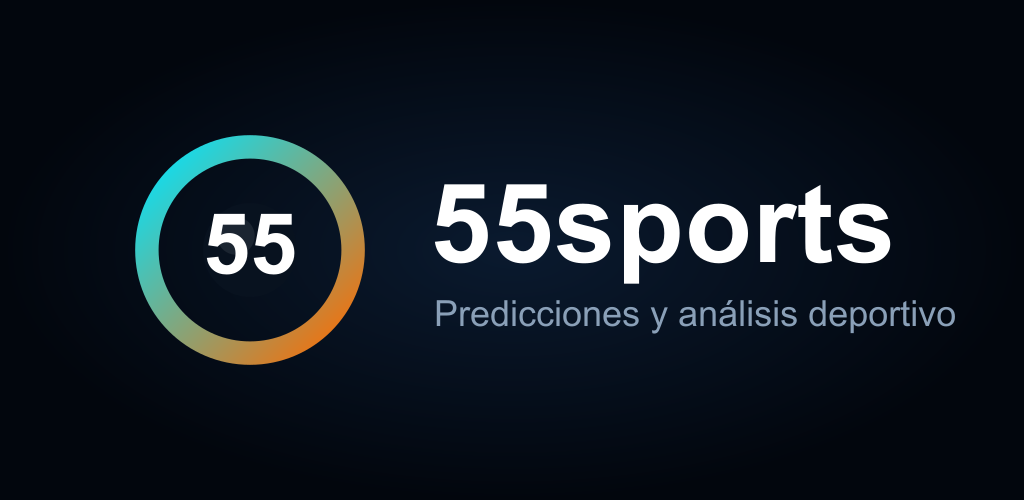
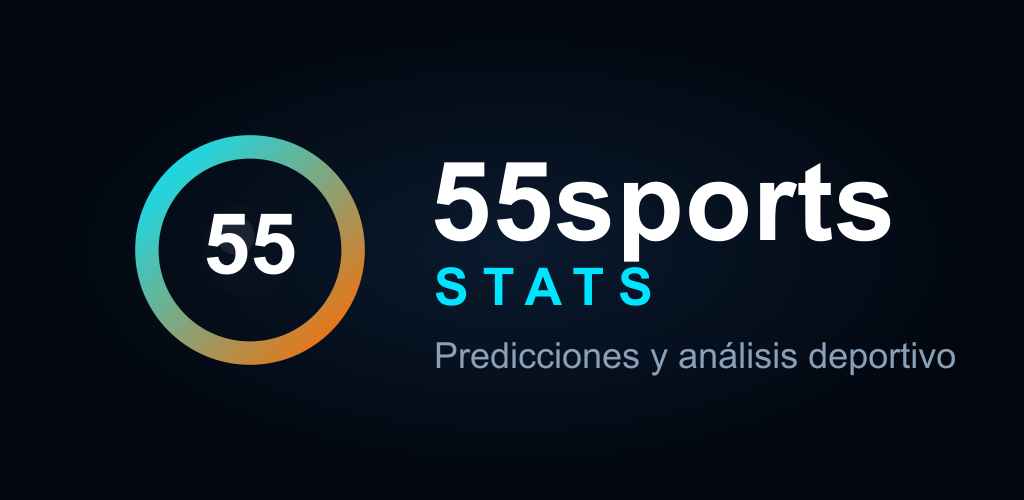
Renombrar la marca visible a 55sports Stats y actualizar splash/feature graphic

Changed region(s): [[0.4062, 0.3, 0.9375, 0.66], [0.4062, 0.69, 0.9375, 0.75]]

diff --git a/frontend/src/PrivacyPolicy.tsx b/frontend/src/PrivacyPolicy.tsx
@@ -17,15 +17,15 @@ export default function PrivacyPolicy() {
   return (
     <div className="max-w-3xl mx-auto px-4 py-8 space-y-6">
       <div>
-        <Link to="/" className="text-xs text-slate-400 hover:text-white">← Volver a 55sports</Link>
+        <Link to="/" className="text-xs text-slate-400 hover:text-white">← Volver a 55sports Stats</Link>
         <h1 className="mt-3 text-2xl sm:text-3xl font-bold text-white">Política de Privacidad</h1>
         <p className="mt-1 text-xs text-slate-500">Vigente desde el {VIGENCIA}</p>
       </div>
 
       <Section title="1. Responsable del tratamiento">
         <p>
-          <strong className="text-slate-200">{RESPONSABLE}</strong>, titular de la plataforma 55sports
-          (en adelante, "55sports"), es el responsable del tratamiento de los datos personales
+          <strong className="text-slate-200">{RESPONSABLE}</strong>, titular de la plataforma 55sports Stats
+          (en adelante, "55sports Stats"), es el responsable del tratamiento de los datos personales
           descritos en esta política, conforme a la Ley 1581 de 2012, el Decreto 1377 de 2013 y las
           demás normas que los modifiquen o complementen.
         </p>
@@ -46,7 +46,7 @@ export default function PrivacyPolicy() {
 
       <Section title="3. Para qué usamos tus datos">
         <ul className="list-disc pl-5 space-y-1">
-          <li>Gestionar tu suscripción a 55sports.</li>
+          <li>Gestionar tu suscripción a 55sports Stats.</li>
           <li>Enviarte información sobre predicciones, resultados, análisis y novedades de la plataforma.</li>
           <li>Responder tus consultas y solicitudes.</li>
           <li>Mejorar el contenido y el funcionamiento del servicio.</li>
@@ -81,7 +81,7 @@ export default function PrivacyPolicy() {
 
       <Section title="6. Dónde se almacenan los datos">
         <p>
-          La infraestructura de 55sports (servidor, base de datos y sitio web) está alojada con
+          La infraestructura de 55sports Stats (servidor, base de datos y sitio web) está alojada con
           proveedores de servicios en la nube ubicados en Estados Unidos. Esto implica una
           transmisión internacional de datos, que se realiza con proveedores que aplican medidas de
           seguridad adecuadas.
@@ -98,20 +98,20 @@ export default function PrivacyPolicy() {
 
       <Section title="8. Menores de edad">
         <p>
-          55sports está dirigida a mayores de 18 años. No recolectamos intencionalmente datos de
+          55sports Stats está dirigida a mayores de 18 años. No recolectamos intencionalmente datos de
           menores de edad; si detectamos que se registró un menor, eliminaremos sus datos.
         </p>
       </Section>
 
       <Section title="9. Naturaleza informativa y marcas de terceros">
         <p>
-          55sports es una plataforma informativa y de análisis estadístico. No es una casa de
+          55sports Stats es una plataforma informativa y de análisis estadístico. No es una casa de
           apuestas, no recibe ni gestiona apuestas ni dinero, y sus predicciones son estimaciones
           que no garantizan resultados.
         </p>
         <p>
           Los nombres, escudos y marcas de equipos y competiciones pertenecen a sus respectivos
-          propietarios. 55sports es independiente y no está afiliada ni respaldada por ellos.
+          propietarios. 55sports Stats es independiente y no está afiliada ni respaldada por ellos.
         </p>
       </Section>
 

diff --git a/frontend/src/SubscribeModal.tsx b/frontend/src/SubscribeModal.tsx
@@ -129,7 +129,7 @@ export default function SubscribeModal({ isOpen, onClose }: Props) {
           <div className="flex items-center gap-3">
             <span className="text-3xl">🔔</span>
             <div>
-              <h2 className="text-slate-900 font-bold text-lg leading-tight">Suscríbete a 55sports</h2>
+              <h2 className="text-slate-900 font-bold text-lg leading-tight">Suscríbete a 55sports Stats</h2>
               <p className="text-slate-800 text-xs mt-0.5">Mantente al tanto de predicciones, resultados y novedades</p>
             </div>
           </div>
@@ -142,7 +142,7 @@ export default function SubscribeModal({ isOpen, onClose }: Props) {
               <div className="text-6xl">🎉</div>
               <p className="text-white font-semibold text-lg">{serverMsg}</p>
               <p className="text-slate-400 text-sm">
-                Te mantendremos al tanto de las predicciones, análisis y novedades de 55sports.
+                Te mantendremos al tanto de las predicciones, análisis y novedades de 55sports Stats.
               </p>
               <button
                 onClick={handleClose}
@@ -227,7 +227,7 @@ export default function SubscribeModal({ isOpen, onClose }: Props) {
                     className="mt-0.5 w-4 h-4 accent-yellow-400 flex-shrink-0 cursor-pointer"
                   />
                   <span className="text-xs text-slate-400 leading-relaxed group-hover:text-slate-300 transition-colors">
-                    Autorizo a 55sports el tratamiento de mis datos personales (nombre, correo,
+                    Autorizo a 55sports Stats el tratamiento de mis datos personales (nombre, correo,
                     teléfono, país y ciudad) para enviarme información sobre predicciones,
                     resultados y novedades de la plataforma, conforme a la{' '}
                     <strong className="text-slate-300">Ley 1581 de 2012</strong> (Colombia) y a la{' '}

diff --git a/frontend/src/App.tsx b/frontend/src/App.tsx
@@ -59,9 +59,9 @@ function TopBar({ isMobile, onSubscribe }: { isMobile: boolean; onSubscribe: () 
           <div className="flex items-center h-12 sm:h-14 gap-2 sm:gap-4">
             {/* Logo — no encoge nunca */}
             <div className="flex items-center gap-2 flex-shrink-0">
-              <img src="/55sports2.svg" alt="55sports Logo" className="w-7 h-7 sm:w-8 sm:h-8" />
+              <img src="/55sports2.svg" alt="55sports Stats Logo" className="w-7 h-7 sm:w-8 sm:h-8" />
               <h1 className="text-sm sm:text-xl font-bold text-white whitespace-nowrap">
-                55sports
+                55sports Stats
               </h1>
               {!isAdmin && (
                 <button
@@ -97,7 +97,7 @@ function TopBar({ isMobile, onSubscribe }: { isMobile: boolean; onSubscribe: () 
                 <button
                   onClick={onSubscribe}
                   className="w-8 h-8 flex items-center justify-center rounded-full bg-yellow-400 hover:bg-yellow-300 text-slate-900 text-sm"
-                  title="Suscríbete para mantenerte al tanto de 55sports"
+                  title="Suscríbete para mantenerte al tanto de 55sports Stats"
                   aria-label="Suscríbete"
                 >🔔</button>
               )}
@@ -202,7 +202,7 @@ function App() {
                          font-bold text-sm px-4 py-3 rounded-full shadow-lg
                          shadow-yellow-400/30 hover:shadow-yellow-400/50
                          transition-all hover:scale-105 active:scale-95"
-              title="Suscríbete para mantenerte al tanto de 55sports"
+              title="Suscríbete para mantenerte al tanto de 55sports Stats"
             >
               <span className="text-base">🔔</span>
               <span>Suscríbete</span>

diff --git a/frontend/src/LegalFooter.tsx b/frontend/src/LegalFooter.tsx
@@ -9,11 +9,11 @@ export default function LegalFooter() {
     <footer className="mt-8 border-t border-slate-800 px-4 py-5 text-center text-[11px] leading-relaxed text-slate-500">
       <p>
         <strong className="text-slate-400">+18.</strong> Juega con responsabilidad: apostar puede
-        generar adicción. 55sports es una plataforma informativa y de análisis; no es una casa de
+        generar adicción. 55sports Stats es una plataforma informativa y de análisis; no es una casa de
         apuestas ni recibe apuestas. Las predicciones son estimaciones estadísticas y no garantizan resultados.
       </p>
       <p className="mt-1.5">
-        © {new Date().getFullYear()} 55sports ·{' '}
+        © {new Date().getFullYear()} 55sports Stats ·{' '}
         <Link to="/privacidad" className="underline hover:text-slate-300">Política de Privacidad</Link>
       </p>
     </footer>

diff --git a/frontend/index.html b/frontend/index.html
@@ -4,7 +4,7 @@
     <meta charset="UTF-8" />
     <link rel="icon" type="image/svg+xml" href="/55sports2.svg" />
     <meta name="viewport" content="width=device-width, initial-scale=1.0, user-scalable=no, viewport-fit=cover">
-    <title>55sports - Predicciones Deportivas</title>
+    <title>55sports Stats - Predicciones Deportivas</title>
     <style>
       /* Prevent horizontal scroll on body */
       html, body {
